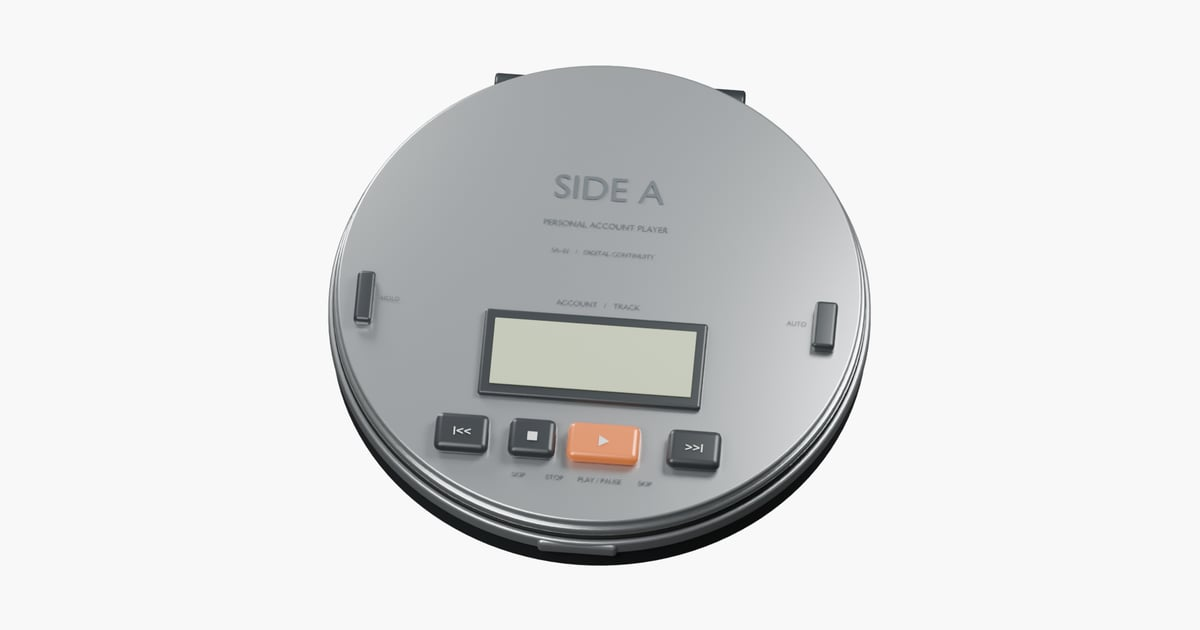
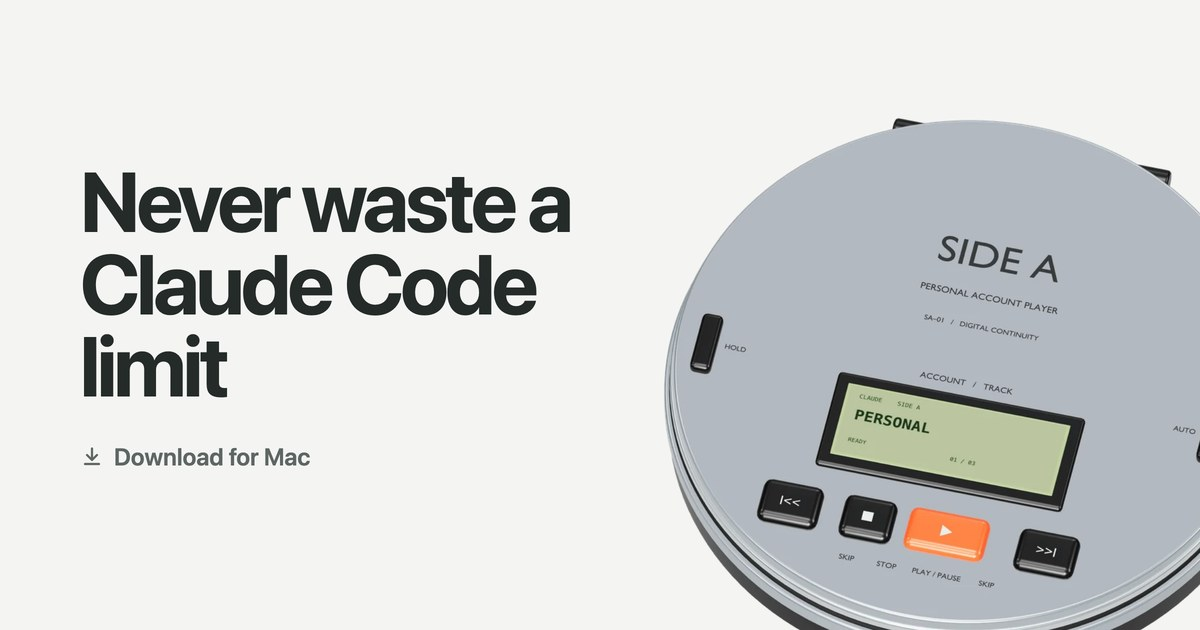
site: update the Side A download experience

diff --git a/docs/index.html b/docs/index.html
@@ -10,11 +10,13 @@
   <meta property="og:description" content="Every limit in your menu bar. Side A uses the quota that expires first." />
   <meta property="og:type" content="website" />
   <meta property="og:image" content="https://getsidea.com/social.jpg" />
+  <meta property="og:image:width" content="1200" />
+  <meta property="og:image:height" content="630" />
   <meta property="og:url" content="https://getsidea.com/" />
   <meta name="twitter:card" content="summary_large_image" />
   <meta name="author" content="Arne Noori" />
   <meta property="og:site_name" content="Side A" />
-  <meta property="og:image:alt" content="Side A, a silver portable account player for Mac" />
+  <meta property="og:image:alt" content="Never waste a Claude Code limit: Side A, a silver portable account player for Mac" />
   <link rel="alternate" type="text/markdown" href="https://getsidea.com/index.md" title="Product and setup guide" />
   <link rel="canonical" href="https://getsidea.com/" />
   <link rel="icon" type="image/svg+xml" href="./favicon.svg" />
